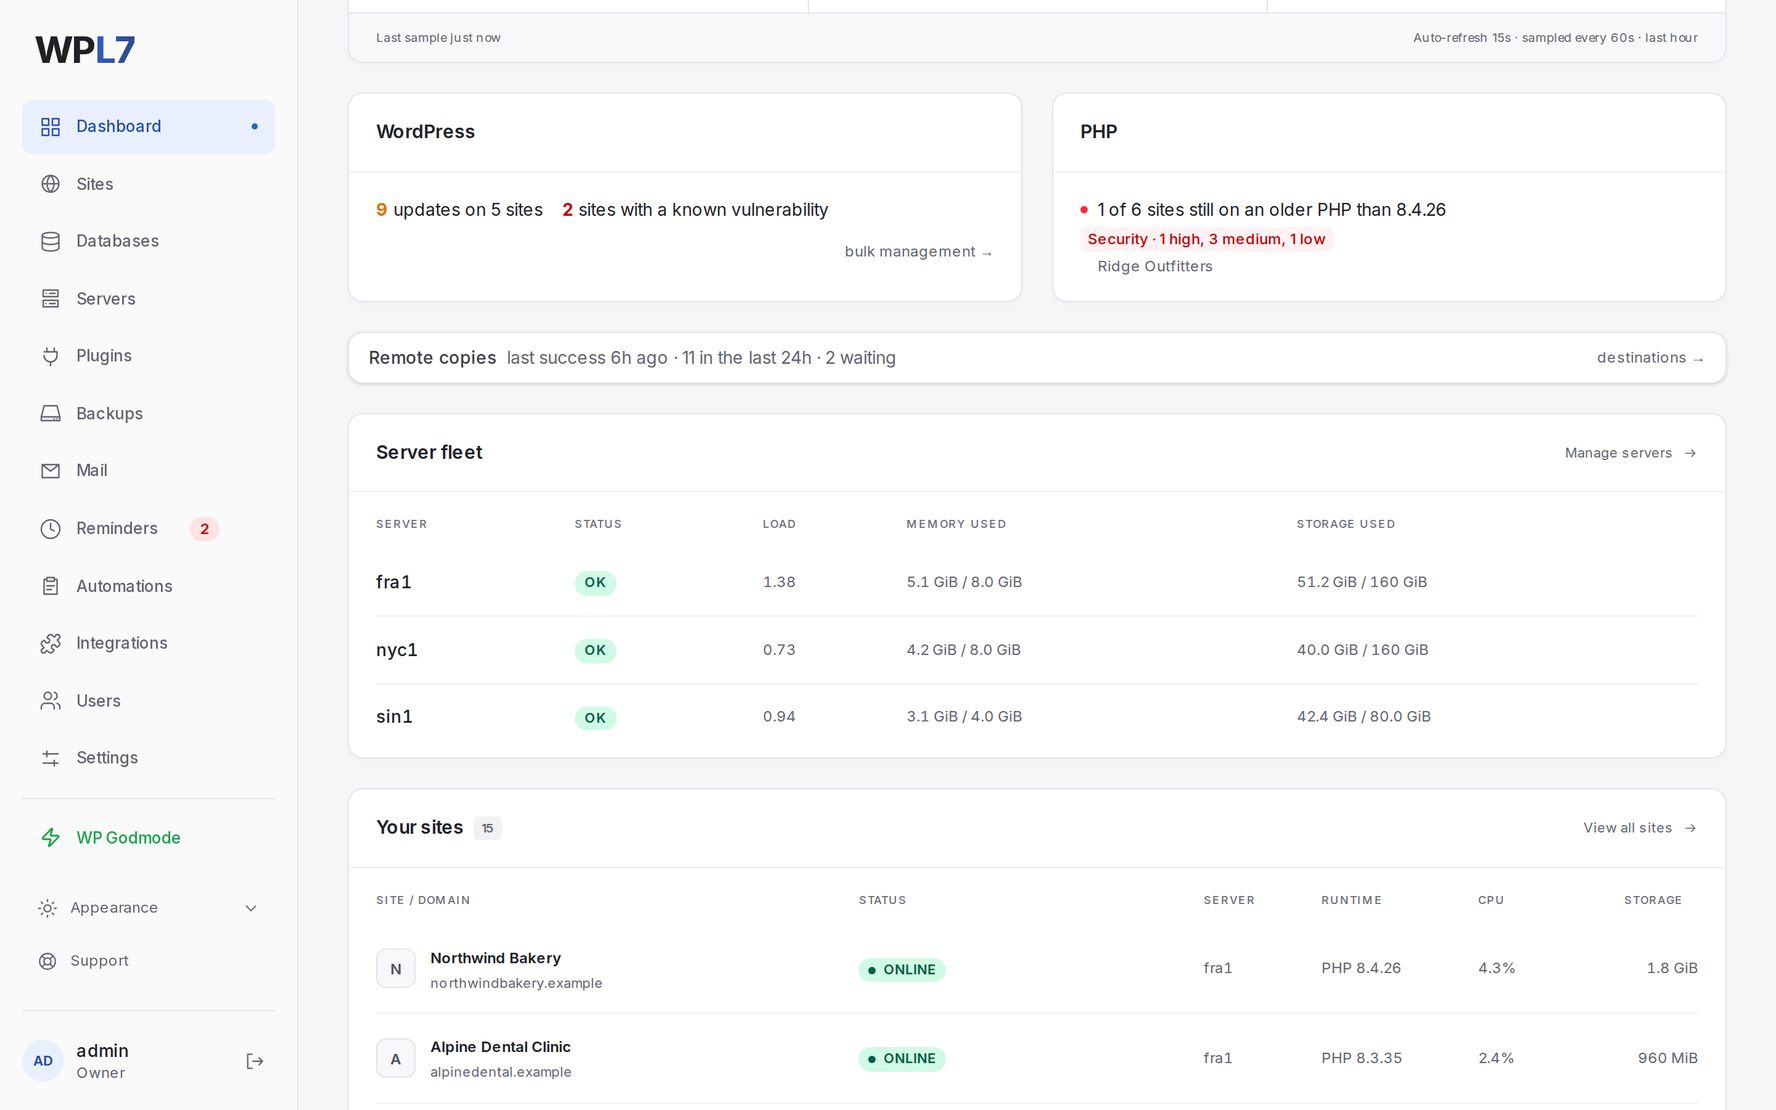
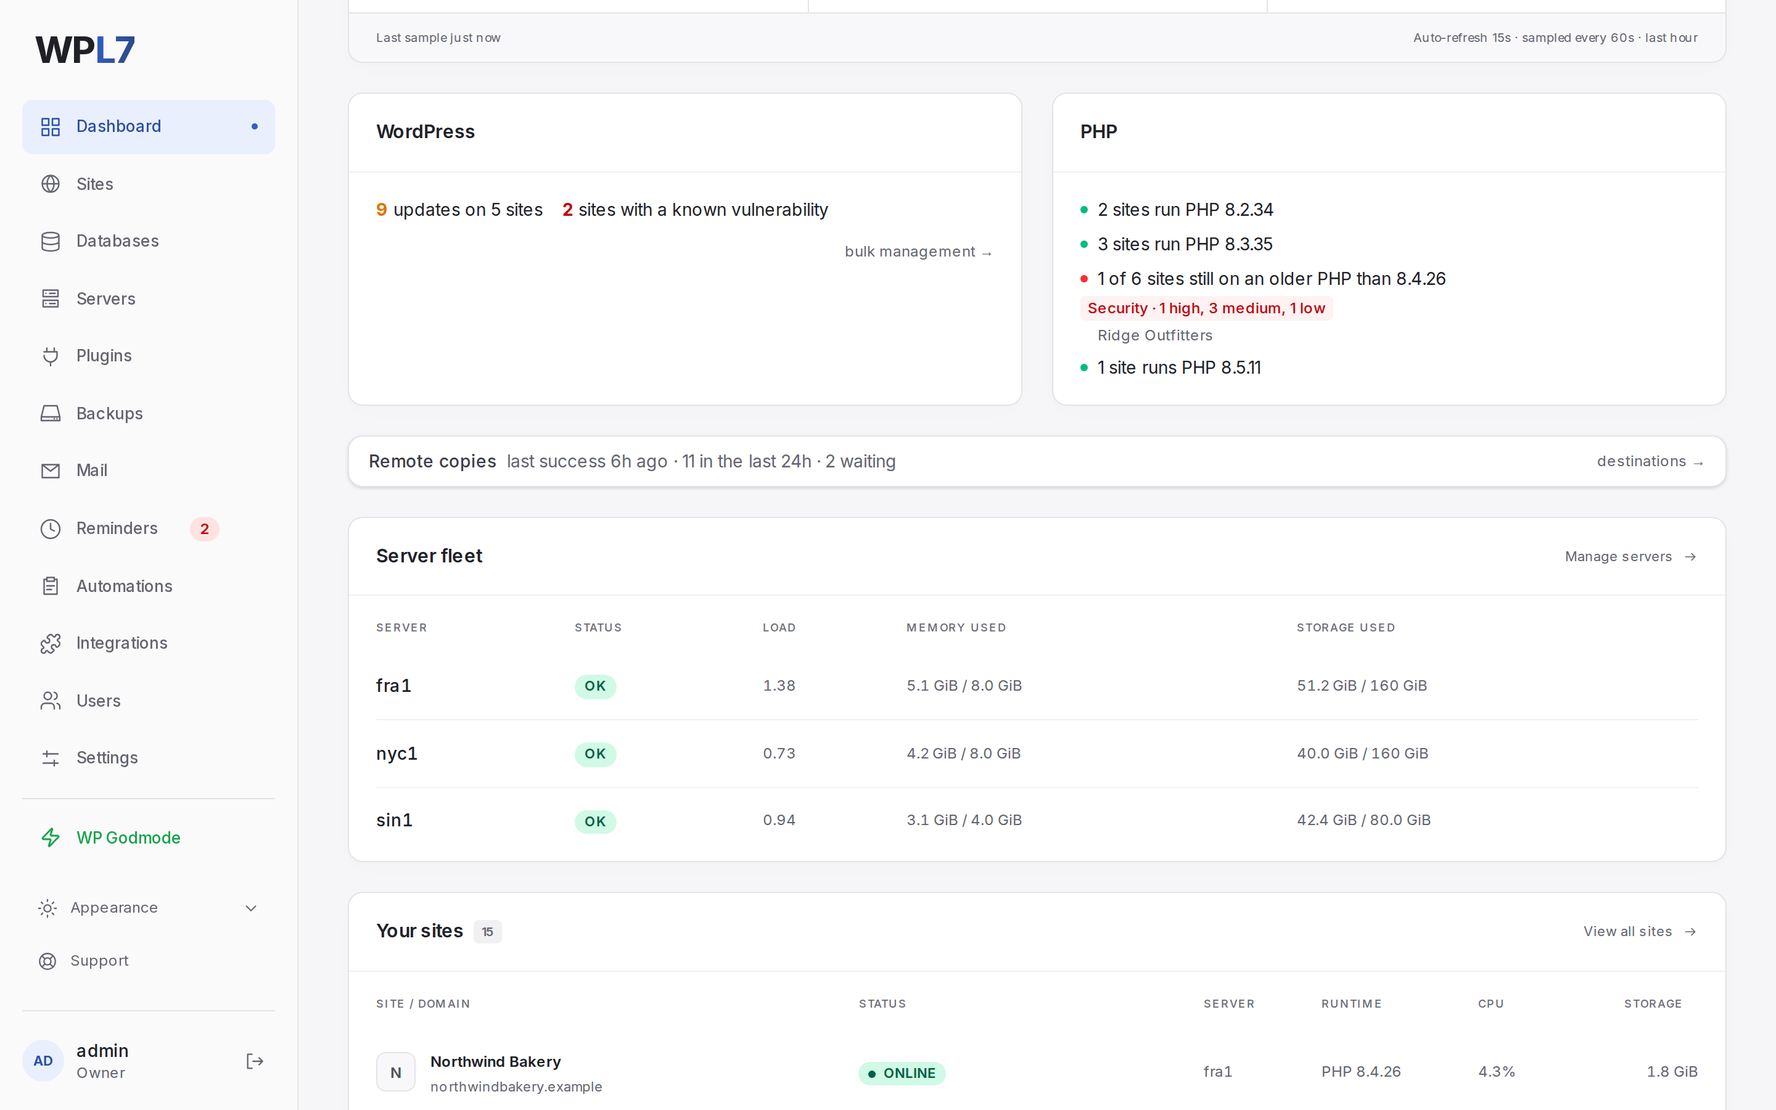
The Overview's PHP card lists every PHP version your sites run (#74)
* The Overview's PHP card lists every PHP version your sites run

The card had a line only while something was happening, and after a
rollout it said "All sites run PHP 8.4.28" for a day. With sites on two
PHP versions that read as if every site ran that one release, and a
version that had no rollout got no line at all.

Each PHP version the hosted sites run now has a line of its own, such as
"3 sites run PHP 8.4.28". Its dot is green once every one of them is
known to run the newest release, and gray until then. While some are
behind a new release, the line says how it is reaching them, as before.

GET /api/php gives each branch a `release`: the one all its sites run,
as last read, or null. The line names what the sites run, not what
php.net lists, and falls back to the version alone when they differ or
one is not read yet.

The email after a rollout names the version too: "All PHP 8.4 sites run
8.4.28". A version's details say when php.net has not been read yet,
instead of that it lists no release of it.

* Update docs screenshots

---------

diff --git a/panel/test/unit/webPhp.test.ts b/panel/test/unit/webPhp.test.ts
@@ -11,6 +11,7 @@ function branch(over: Partial<PhpBranchDto> = {}): PhpBranchDto {
     latest: { version: '8.4.28', date: '2026-11-19', security: true, seenAt: NOW, advisories: [] },
     next: null,
     sites: 12,
+    release: '8.4.28',
     current: 12,
     behind: [],
     behindCount: 0,
@@ -37,11 +38,29 @@ const data = (branches: PhpBranchDto[], over: Partial<PhpUpdatesDto> = {}): PhpU
   ...over,
 });
 
-const behind = { current: 5, behindCount: 7, behind: [{ slug: 'blog', title: 'Blog', release: '8.4.27', serverId: 1, move: null }] };
+const behind = { release: null, current: 5, behindCount: 7, behind: [{ slug: 'blog', title: 'Blog', release: '8.4.27', serverId: 1, move: null }] };
+
+/** The card's line for a PHP version none of whose sites is behind. */
+const quiet = (branch: string, text: string, tone: 'done' | 'unknown' = 'done') => ({ kind: 'release', branch, text, tone, badge: null, sites: [], more: 0, update: false });
 
 describe('the PHP card', () => {
-  it('says nothing when nothing is happening', () => {
-    expect(phpLines(data([branch()]), NOW)).toEqual([]);
+  it('says what the sites of each PHP version run', () => {
+    expect(phpLines(data([branch()]), NOW)).toEqual([quiet('8.4', '12 sites run PHP 8.4.28')]);
+    // Each version has a line of its own: its sites run a release of their own.
+    const b85 = branch({ branch: '8.5', latest: { ...branch().latest!, version: '8.5.13' }, sites: 1, current: 1, release: '8.5.13', images: [image('nyc1', '8.5.13')] });
+    const lines = phpLines(data([branch({ sites: 3, current: 3 }), b85]), NOW);
+    expect(lines).toEqual([quiet('8.4', '3 sites run PHP 8.4.28'), quiet('8.5', '1 site runs PHP 8.5.13')]);
+    // The day after its sites moved onto a release reads the same.
+    expect(phpLines(data([branch({ doneRecently: true })]), NOW)).toEqual([quiet('8.4', '12 sites run PHP 8.4.28')]);
+  });
+
+  it('grays a version whose sites are not all known to run its newest release', () => {
+    // A site whose PHP is not read yet: the version alone, as nothing names one release.
+    expect(phpLines(data([branch({ sites: 3, current: 2, release: null })]), NOW)).toEqual([quiet('8.4', '3 sites run PHP 8.4', 'unknown')]);
+    // php.net not read yet: what the sites run, but not whether it is the newest.
+    expect(phpLines(data([branch({ latest: null, current: 0, release: '8.4.27' })]), NOW)).toEqual([quiet('8.4', '12 sites run PHP 8.4.27', 'unknown')]);
+    // Sites on a release php.net was not read to list yet: still current, by their own release.
+    expect(phpLines(data([branch({ release: '8.4.29' })]), NOW)).toEqual([quiet('8.4', '12 sites run PHP 8.4.29')]);
   });
 
   it('shows an advance notice with its time', () => {
@@ -51,7 +70,10 @@ describe('the PHP card', () => {
       }),
       NOW,
     );
-    expect(lines).toEqual([{ kind: 'notice', text: 'PHP security release on Wed 21 Oct, 14:00 UTC', url: 'https://www.php.net/x' }]);
+    expect(lines).toEqual([
+      { kind: 'notice', text: 'PHP security release on Wed 21 Oct, 14:00 UTC', url: 'https://www.php.net/x' },
+      quiet('8.4', '12 sites run PHP 8.4.28'),
+    ]);
   });
 
   it('waits for the image, then counts the sites moving, then names the ones left behind', () => {
@@ -73,27 +95,23 @@ describe('the PHP card', () => {
     ]);
   });
 
-  it('says for a day that every site made it', () => {
-    expect(phpLines(data([branch({ doneRecently: true })]), NOW)).toMatchObject([{ tone: 'done', text: 'All sites run PHP 8.4.28', badge: null }]);
-  });
-
   it('leaves out a branch no site runs', () => {
     expect(phpLines(data([branch({ ...behind, sites: 0 })]), NOW)).toEqual([]);
   });
 
   it('dates the next releases a week ahead, and says when one is due', () => {
     const next = (release: string, expected: string) => ({ version: `${release}RC1`, release, date: '2026-11-05', expected });
-    const lines = phpLines(
+    const coming = (d: PhpUpdatesDto) => phpLines(d, NOW).filter((line) => line.kind === 'next');
+    const lines = coming(
       data([
         branch({ next: next('8.4.29', '2026-11-26') }),
         branch({ branch: '8.5', next: next('8.5.14', '2026-11-26') }),
         branch({ branch: '8.3', next: next('8.3.38', '2026-12-17') }),
       ]),
-      NOW,
     );
     expect(lines).toEqual([{ kind: 'next', text: 'Next: PHP 8.4.29 and 8.5.14, expected Thu 26 Nov' }]);
-    expect(phpLines(data([branch({ next: next('8.4.29', '2026-11-18') })]), NOW)).toEqual([{ kind: 'next', text: 'Next: PHP 8.4.29, due now' }]);
-    expect(phpLines(data([branch({ next: next('8.4.29', '2026-11-01') })]), NOW)).toEqual([]);
+    expect(coming(data([branch({ next: next('8.4.29', '2026-11-18') })]))).toEqual([{ kind: 'next', text: 'Next: PHP 8.4.29, due now' }]);
+    expect(coming(data([branch({ next: next('8.4.29', '2026-11-01') })]))).toEqual([]);
   });
 });
 
@@ -135,7 +153,13 @@ describe('the details of a PHP branch', () => {
     );
     expect(phpSummary(branch({ ...behind, updating: true }), data([])).text).toBe('Moving the sites onto PHP 8.4.28: 5 of 12 done. Each one restarts for a second or two.');
     expect(phpSummary(branch(behind), data([])).text).toBe('7 of 12 sites still on an older PHP than 8.4.28.');
-    expect(phpSummary(branch(), data([])).text).toBe('All 12 sites run PHP 8.4.28.');
+    expect(phpSummary(branch(), data([])).text).toBe('12 sites run PHP 8.4.28.');
+    expect(phpSummary(branch({ sites: 1, current: 1 }), data([])).text).toBe('1 site runs PHP 8.4.28.');
+    // Some on a release newer than php.net was read to list, some on its newest.
+    expect(phpSummary(branch({ release: null }), data([])).text).toBe('12 sites run PHP 8.4.28 or newer.');
+    expect(phpSummary(branch({ sites: 3, current: 2, release: null }), data([])).text).toBe(
+      "2 of 3 sites run PHP 8.4.28. The others' PHP is read at their next check.",
+    );
   });
 });
 

diff --git a/panel/web/src/lib/php.ts b/panel/web/src/lib/php.ts
@@ -21,7 +21,7 @@ export type PhpLine =
       kind: 'release';
       branch: string;
       text: string;
-      tone: 'waiting' | 'updating' | 'behind' | 'done';
+      tone: PhpTone;
       /** "Security · 2 critical", for a security release. */
       badge: string | null;
       /** The sites still behind, for `behind`. */
@@ -37,7 +37,8 @@ const SOON_MS = 7 * 24 * 3600_000;
 
 const plural = (n: number, one: string, many = `${one}s`) => `${n} ${n === 1 ? one : many}`;
 
-export type PhpTone = 'waiting' | 'updating' | 'behind' | 'done';
+/** `unknown`: no site is known to be behind, and not every one is known to be current either. */
+export type PhpTone = 'waiting' | 'updating' | 'behind' | 'done' | 'unknown';
 
 /** The dot beside a line, by how things stand. */
 export const PHP_TONES: Record<PhpTone, string> = {
@@ -45,7 +46,11 @@ export const PHP_TONES: Record<PhpTone, string> = {
   updating: 'bg-sky-500',
   behind: 'bg-red-500',
   done: 'bg-emerald-500',
+  unknown: 'bg-neutral-300',
 };
+
+/** "3 sites run PHP 8.4.28", or "3 sites run PHP 8.4" when they do not all run one known release. */
+const sitesRun = (b: PhpBranchDto, release = b.release ?? b.branch) => `${plural(b.sites, 'site')} ${b.sites === 1 ? 'runs' : 'run'} PHP ${release}`;
 
 const hasRelease = (release: string | null, version: string) => release !== null && compareRelease(release, version) >= 0;
 const running = (job: { status: string } | null) => job !== null && (job.status === 'queued' || job.status === 'running');
@@ -85,7 +90,7 @@ export function phpSummary(b: PhpBranchDto, data: PhpUpdatesDto): { text: string
     return {
       text:
         b.current === b.sites
-          ? `${b.sites === 1 ? 'The site runs' : `All ${b.sites} sites run`} PHP ${version}.`
+          ? `${sitesRun(b, b.release ?? `${version} or newer`)}.`
           : `${b.current} of ${plural(b.sites, 'site')} run PHP ${version}. The others' PHP is read at their next check.`,
       update: false,
     };
@@ -107,7 +112,10 @@ export function phpSummary(b: PhpBranchDto, data: PhpUpdatesDto): { text: string
   return { text: `${b.behindCount} of ${plural(b.sites, 'site')} still on an older PHP than ${version}.`, update: false };
 }
 
-/** What the Overview's PHP card says: nothing at all when nothing is happening. */
+/**
+ * What the Overview's PHP card says: a line for each PHP version sites run, telling how its newest
+ * release is reaching them while some are behind it, and what is coming.
+ */
 export function phpLines(data: PhpUpdatesDto, now: number): PhpLine[] {
   const lines: PhpLine[] = [];
   if (data.notice) {
@@ -115,12 +123,14 @@ export function phpLines(data: PhpUpdatesDto, now: number): PhpLine[] {
     lines.push({ kind: 'notice', text: when ? `PHP security release on ${when}` : 'A PHP security release is coming', url: data.notice.url });
   }
   for (const b of data.branches) {
+    if (b.sites === 0) continue;
     const latest = b.latest;
-    if (!latest || b.sites === 0) continue;
-    const badge = latest.security ? ['Security', severityCounts(latest.advisories)].filter(Boolean).join(' · ') : null;
+    const quiet = !latest || b.behindCount === 0;
+    const badge = !quiet && latest.security ? ['Security', severityCounts(latest.advisories)].filter(Boolean).join(' · ') : null;
     const base = { kind: 'release' as const, branch: b.branch, badge, sites: [] as PhpBranchDto['behind'], more: 0, update: false };
-    if (b.behindCount === 0) {
-      if (b.doneRecently) lines.push({ ...base, tone: 'done', text: `All sites run PHP ${latest.version}`, badge: null });
+    // None behind: what its sites run, green once every one is known to run the newest release.
+    if (quiet) {
+      lines.push({ ...base, tone: latest && b.current === b.sites ? 'done' : 'unknown', text: sitesRun(b) });
       continue;
     }
     const has = (release: string | null) => release !== null && compareRelease(release, latest.version) >= 0;

diff --git a/panel/test/unit/phpUpdates.test.ts b/panel/test/unit/phpUpdates.test.ts
@@ -372,19 +372,24 @@ describe('what the Overview and the emails say', () => {
     const w = await makeWorld({ phpFetch: phpNet(php83('8.3.37', today())).fetch });
     siteRow(w, 'blog', '8.3.36');
     siteRow(w, 'shop', '8.3.37');
+    siteRow(w, 'docs', '8.4.27', '8.4');
+    siteRow(w, 'wiki', '8.4.27', '8.4');
     await w.core.phpUpdates.tick();
     const status = w.core.phpUpdates.status();
     const b83 = status.branches.find((b) => b.branch === '8.3')!;
     expect(b83).toMatchObject({
       latest: { version: '8.3.37', security: true },
       sites: 2,
+      release: null,
       current: 1,
       behind: [{ slug: 'blog', title: 'BLOG', release: '8.3.36' }],
       behindCount: 1,
       updating: false,
     });
     expect(b83.latest!.advisories.map((a) => a.cve)).toEqual(['CVE-2026-115560']);
-    expect(status.branches.find((b) => b.branch === '8.4')!.next).toMatchObject({ release: '8.4.28', expected: '2026-11-19' });
+    const b84 = status.branches.find((b) => b.branch === '8.4')!;
+    expect(b84).toMatchObject({ sites: 2, release: '8.4.27', current: 2, behindCount: 0 });
+    expect(b84.next).toMatchObject({ release: '8.4.28', expected: '2026-11-19' });
     expect(status.images).toBe('registry');
   });
 
@@ -548,11 +553,11 @@ describe('what the Overview and the emails say', () => {
     const site = siteRow(w, 'blog', null);
     w.docker.phpOf(siteImage('8.3'), '8.3.37');
     await w.core.phpUpdates.tick();
-    expect(w.core.phpUpdates.status().branches.find((b) => b.branch === '8.3')).toMatchObject({ current: 0, behindCount: 0, doneRecently: false });
+    expect(w.core.phpUpdates.status().branches.find((b) => b.branch === '8.3')).toMatchObject({ release: null, current: 0, behindCount: 0, doneRecently: false });
     expect(sent.map((m) => m.subject)).toEqual(['PHP 8.3.37 is out, with security fixes']);
     w.db.update(sites).set({ phpRelease: '8.3.37' }).where(eq(sites.id, site.id)).run();
     await w.core.phpUpdates.tick();
-    expect(sent.map((m) => m.subject)).toEqual(['PHP 8.3.37 is out, with security fixes', 'All sites run PHP 8.3.37']);
+    expect(sent.map((m) => m.subject)).toEqual(['PHP 8.3.37 is out, with security fixes', 'All PHP 8.3 sites run 8.3.37']);
   });
 
   it('says when every site moved onto the newest release, for a day', async () => {
@@ -564,7 +569,8 @@ describe('what the Overview and the emails say', () => {
     w.db.update(sites).set({ phpRelease: '8.3.37' }).where(eq(sites.id, site.id)).run();
     await w.core.phpUpdates.tick();
     expect(w.core.phpUpdates.status().branches.find((b) => b.branch === '8.3')!.doneRecently).toBe(true);
-    expect(sent.map((m) => m.subject)).toEqual(['PHP 8.3.37 is out, with security fixes', 'All sites run PHP 8.3.37']);
+    expect(sent.map((m) => m.subject)).toEqual(['PHP 8.3.37 is out, with security fixes', 'All PHP 8.3 sites run 8.3.37']);
+    expect(sent[1]!.body).toBe('Every site on PHP 8.3 runs 8.3.37 now: 1 in all.');
     vi.useFakeTimers({ toFake: ['Date'], now: Date.now() + 25 * 3600_000 });
     expect(w.core.phpUpdates.status().branches.find((b) => b.branch === '8.3')!.doneRecently).toBe(false);
   });

diff --git a/panel/src/services/phpUpdates.ts b/panel/src/services/phpUpdates.ts
@@ -49,7 +49,7 @@ const BASE_CHECK_MS = 30 * MIN;
 const PLAN_TIMEOUT_MS = 2 * MIN;
 /** A refresh that failed is not queued again on its server before this. */
 const RETRY_AFTER_MS = HOUR;
-/** "All sites run PHP 8.4.28" stays on the Overview this long. */
+/** A branch's sites count as `doneRecently` this long after the last one moved onto its newest release. */
 const DONE_SHOWN_MS = 24 * HOUR;
 /** An advance notice stays on the Overview until this long after the time it names. */
 const NOTICE_AFTER_MS = 24 * HOUR;
@@ -120,7 +120,7 @@ interface ImagesState {
    * `doneAt`: sites that ran it from the start, as after an install, did not move.
    */
   behindAt: Record<string, number>;
-  /** By release version: when the last site moved onto it, for the Overview. */
+  /** By release version: when the last site moved onto it, for `doneRecently`. */
   doneAt: Record<string, number>;
 }
 
@@ -569,7 +569,7 @@ export class PhpUpdatesService {
       if (branch.behindCount === 0) {
         // A site whose release is not known yet is not done: it waits, and so does the email.
         if (branch.current < branch.sites) continue;
-        // On the Overview only once sites moved onto it: not for sites that ran it from the start.
+        // Done only once sites moved onto it: not for sites that ran it from the start.
         if (state.behindAt[latest.version] && !state.doneAt[latest.version]) this.mark(state, 'doneAt', latest.version, now);
         if (latest.security) await this.s.alerts.phpRolloutDone(latest.version, branch.sites);
         continue;
@@ -647,6 +647,8 @@ export class PhpUpdatesService {
         const mine = rows.filter((r) => r.phpVersion === branch);
         // A site whose release is not known yet, or that has no container, is neither behind nor current.
         const behind = latest ? mine.filter((r) => behindOf(r.phpRelease, latest.version)) : [];
+        // What they run: a release is named only when every one of them is known to run it.
+        const runs = new Set(mine.map((r) => r.phpRelease));
         const current = latest ? mine.filter((r) => r.phpRelease && compareVersions(r.phpRelease, latest.version) >= 0).length : 0;
         const doneAt = latest ? (state.doneAt[latest.version] ?? null) : null;
         const listed = behind.slice(0, BEHIND_LISTED);
@@ -666,6 +668,7 @@ export class PhpUpdatesService {
             : null,
           next: facts.candidates[branch] ?? null,
           sites: mine.length,
+          release: runs.size === 1 ? ([...runs][0] ?? null) : null,
           current,
           behind: listed.map((r) => {
             const move = moves.find((job) => job.siteId === r.id);

diff --git a/panel/src/services/alerts.ts b/panel/src/services/alerts.ts
@@ -524,7 +524,12 @@ export class AlertService {
   /** That every site on a security release's branch runs it, for a release told by `phpReleases`. Once. */
   async phpRolloutDone(version: string, total: number): Promise<void> {
     if (!this.said(`php-release:${version}`)) return;
-    await this.once(`php-rollout-done:${version}`, () => [`All sites run PHP ${version}`, [`Every site on its branch runs PHP ${version} now: ${total} in all.`]]);
+    // Named by its branch: sites on another PHP version run another release.
+    const branch = /^\d+\.\d+/.exec(version)?.[0] ?? version;
+    await this.once(`php-rollout-done:${version}`, () => [
+      `All PHP ${branch} sites run ${version}`,
+      [`Every site on PHP ${branch} runs ${version} now: ${total} in all.`],
+    ]);
   }
 
   /**

diff --git a/panel/shared/apiDocs.ts b/panel/shared/apiDocs.ts
@@ -2422,7 +2422,7 @@ export const API_DOC_GROUPS: ApiDocGroup[] = [
         method: 'GET',
         path: '/api/php',
         summary: "PHP's newest and next releases, php.net's notice of a security release, and each branch's sites",
-        returns: '{checkedAt, error, notice, branches: [{branch, latest, next, sites, current, behind, behindCount, images, updating, doneRecently}], images, updateNeeded, serverErrors}',
+        returns: '{checkedAt, error, notice, branches: [{branch, latest, next, sites, release, current, behind, behindCount, images, updating, doneRecently}], images, updateNeeded, serverErrors}',
         level: 'read',
       },
       {

diff --git a/panel/web/src/components/PhpCard.tsx b/panel/web/src/components/PhpCard.tsx
@@ -6,8 +6,9 @@ import { usePhpDetails } from './PhpDetails';
 import { Card, OutLink } from './ui';
 
 /**
- * The Overview's PHP card: a security release coming, one out, sites moving onto it. Nothing
- * otherwise. A release's line opens its details (PhpDetails).
+ * The Overview's PHP card: the PHP each version's sites run, and in its place, while some are
+ * behind a new release, how that release is reaching them. Also a security release coming, and
+ * the next releases. A version's line opens its details (PhpDetails).
  */
 export function PhpCard() {
   const query = usePhpUpdates();

diff --git a/panel/web/src/components/PhpDetails.tsx b/panel/web/src/components/PhpDetails.tsx
@@ -45,9 +45,11 @@ export function PhpDetails() {
         <p className="text-sm text-neutral-500">Loading…</p>
       ) : b?.latest && php.data ? (
         <Details b={b} data={php.data} />
-      ) : (
-        <p className="text-sm text-neutral-500">php.net lists no release of PHP {branch}.</p>
-      )}
+      ) : php.data ? (
+        <p className="text-sm text-neutral-500">
+          {php.data.checkedAt === null ? 'php.net has not been read yet.' : `php.net lists no release of PHP ${branch}.`}
+        </p>
+      ) : null}
     </Modal>
   );
 }

diff --git a/panel/shared/types.ts b/panel/shared/types.ts
@@ -1891,6 +1891,8 @@ export interface PhpBranchDto {
   next: { version: string; release: string; date: string; expected: string } | null;
   /** Sites set to this branch, hosted ones: those the panel updates. */
   sites: number;
+  /** The release all of them run, as last read; null when they differ, or one's is not known. */
+  release: string | null;
   /** Of them, the ones on the newest release. */
   current: number;
   /** The first few of the others. */

diff --git a/docs/site/scripts/shots.ts b/docs/site/scripts/shots.ts
@@ -82,7 +82,7 @@ export const SHOTS: Shot[] = [
   },
   {
     name: 'overview-php',
-    what: "The Overview's PHP card: a site still on an older PHP than a security release",
+    what: "The Overview's PHP card: the PHP release each version's sites run, and a site still on an older PHP than a security release",
     path: '/',
     theme: 'light',
     prepare: scrollTo('PHP'),

diff --git a/docs/site/src/content/docs/integrations/api-reference/system.md b/docs/site/src/content/docs/integrations/api-reference/system.md
@@ -6,7 +6,7 @@ sidebar:
 sources:
   - panel/shared/apiDocs.ts
 ---
-<!-- generated by docs/site/scripts/gen-api.ts from panel/shared/apiDocs.ts, panel/shared/access.ts; do not edit. sha256:598e69b3a4735ea558c8077995c24e20fb6087d9382b978cfeb9685698b6a4b7 -->
+<!-- generated by docs/site/scripts/gen-api.ts from panel/shared/apiDocs.ts, panel/shared/access.ts; do not edit. sha256:acfb2b249b8a9dcdfcb0ddf984eb9401b03c4b2f2fd2ff6ae52f58e24959210d -->
 
 What this install is, the release the hourly check found, and applying it (docs/updating.md). Writes are refused with 503 while an update is in flight.
 
@@ -24,7 +24,7 @@ This version and channel, the newest known release, and when it was last checked
 PHP's newest and next releases, php.net's notice of a security release, and each branch's sites.
 
 - **Level:** Read only
-- **Returns:** `{checkedAt, error, notice, branches: [{branch, latest, next, sites, current, behind, behindCount, images, updating, doneRecently}], images, updateNeeded, serverErrors}`
+- **Returns:** `{checkedAt, error, notice, branches: [{branch, latest, next, sites, release, current, behind, behindCount, images, updating, doneRecently}], images, updateNeeded, serverErrors}`
 
 ### `GET /api/system/about`
 
